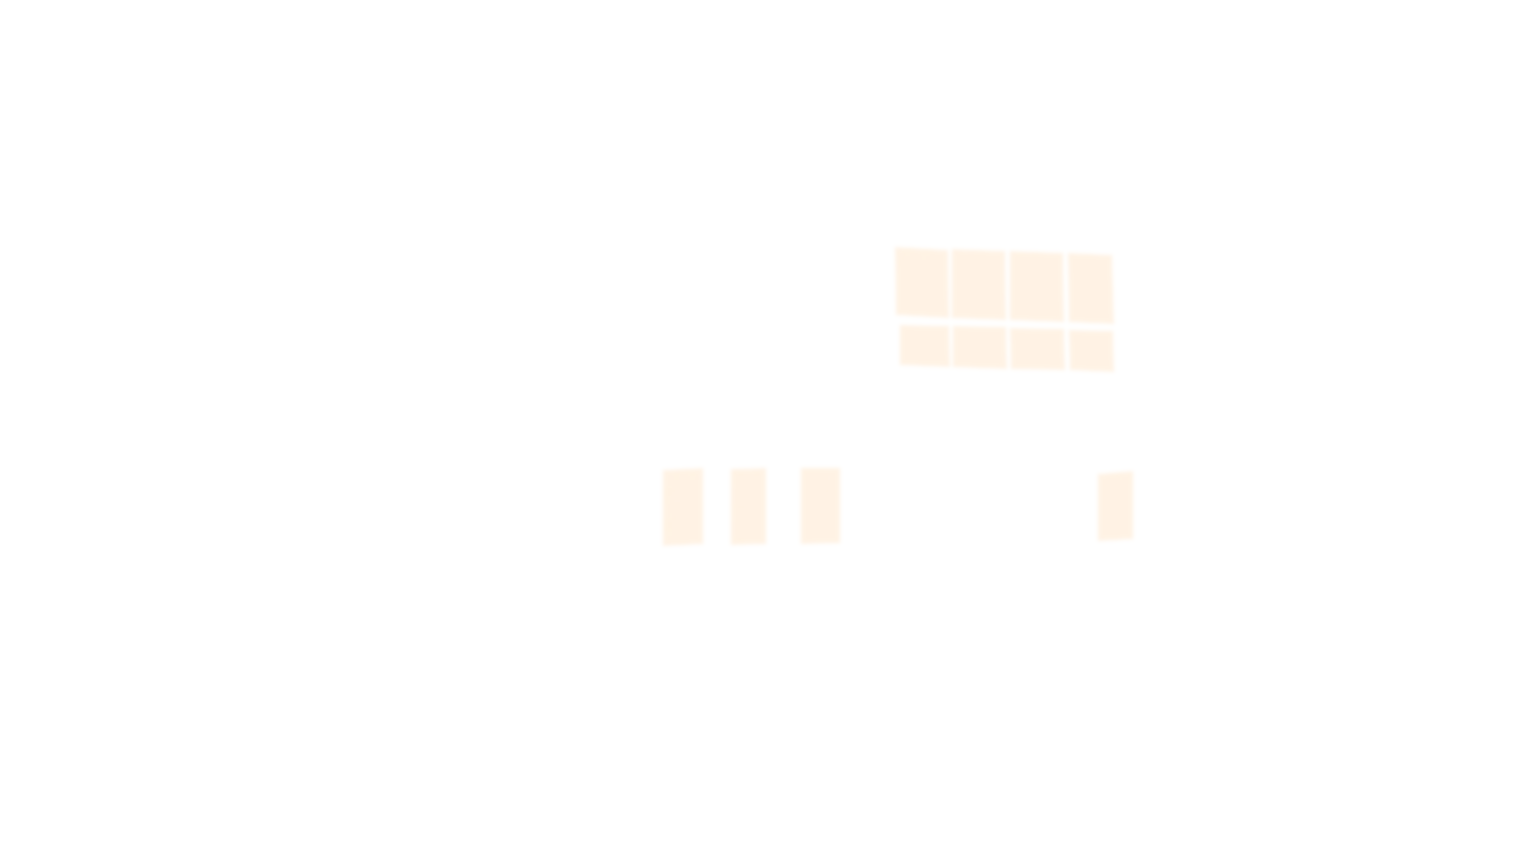
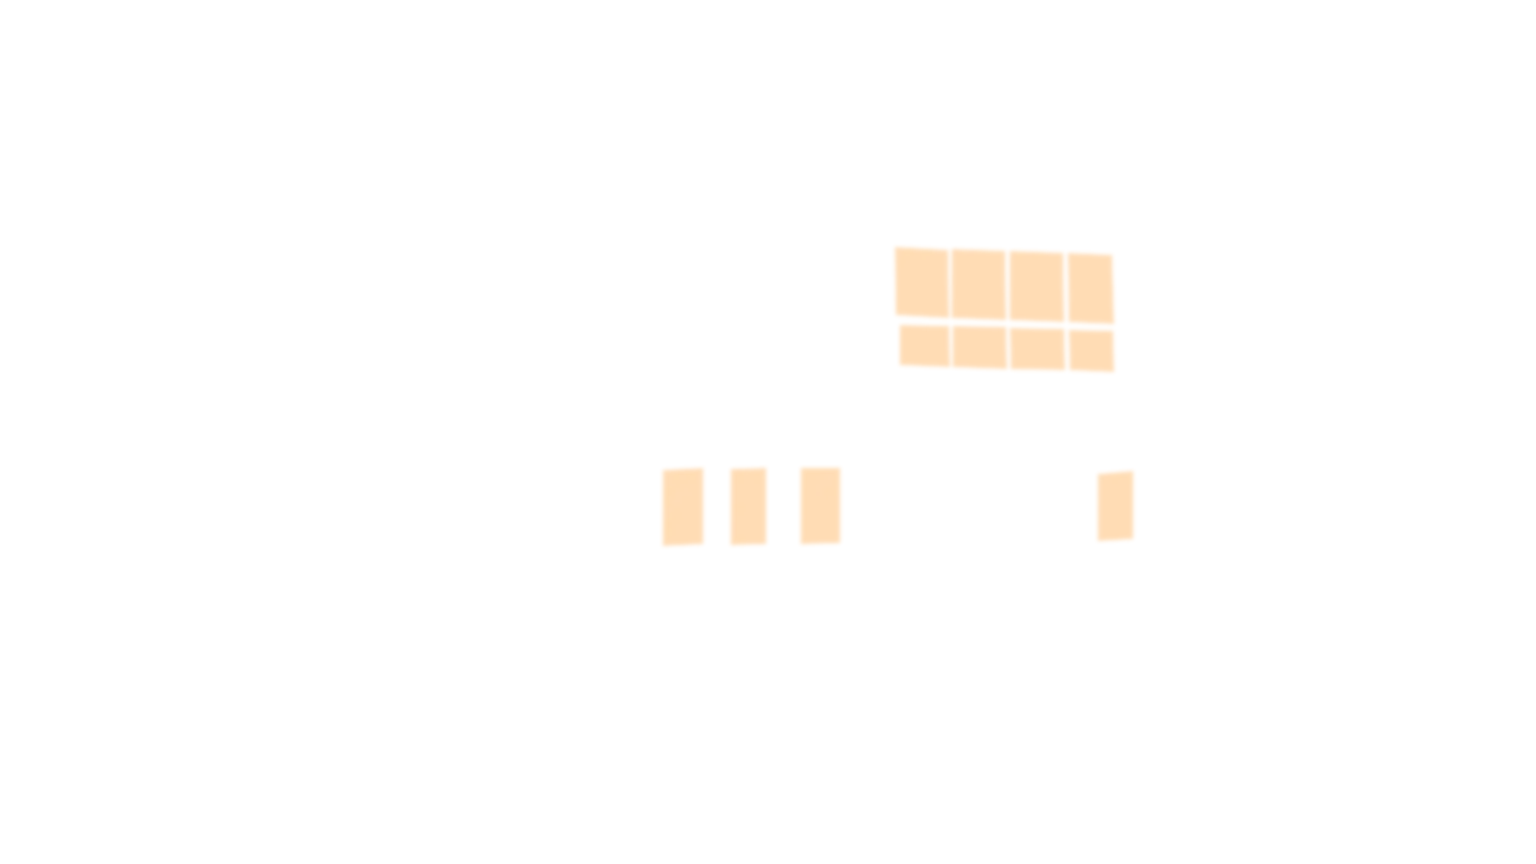
fix: extend hero hover and polish lighting

Changed region(s): [[0.5625, 0.2812, 0.75, 0.4375], [0.4062, 0.5312, 0.5625, 0.6562], [0.6875, 0.5312, 0.75, 0.625]]

diff --git a/src/features/hero-motion/__tests__/useHeroMotion.test.tsx b/src/features/hero-motion/__tests__/useHeroMotion.test.tsx
@@ -42,14 +42,26 @@ describe("useHeroMotion", () => {
     render(<Harness />);
     const host = screen.getByTestId("host");
     bounds(host);
-    fireEvent.pointerMove(host, { clientX: 50, clientY: 300 });
+    fireEvent.pointerMove(host, { clientX: 12, clientY: 300 });
     act(() => vi.advanceTimersByTime(39));
     expect(host.getAttribute("data-state")).toBe("idle");
     act(() => vi.advanceTimersByTime(1));
     expect(host.getAttribute("data-state")).toBe("sketchReveal");
-    fireEvent.pointerMove(host, { clientX: 82, clientY: 300 });
+    fireEvent.pointerMove(host, { clientX: 70, clientY: 300 });
     act(() => vi.advanceTimersByTime(70));
     expect(host.getAttribute("data-state")).toBe("finishedLights");
+  });
+
+  it("activates the finished reveal at the far-left edge of the hero", () => {
+    vi.spyOn(window, "requestAnimationFrame").mockReturnValue(1);
+    render(<Harness />);
+    const host = screen.getByTestId("host");
+    bounds(host);
+
+    fireEvent.pointerMove(host, { clientX: 1, clientY: 300 });
+    act(() => vi.advanceTimersByTime(40));
+
+    expect(host.getAttribute("data-state")).toBe("sketchReveal");
   });
 
   it("uses one rAF and resets immediately on exit", () => {

diff --git a/src/features/hero-motion/heroMotion.css b/src/features/hero-motion/heroMotion.css
@@ -49,24 +49,35 @@
 }
 
 .heroLightLayer {
-  opacity: 0;
-  -webkit-mask-image: linear-gradient(90deg, transparent 0 61%, #000 65% 100%);
-  mask-image: linear-gradient(90deg, transparent 0 61%, #000 65% 100%);
+  will-change: opacity;
   transition: opacity 120ms cubic-bezier(0.4, 0, 0.2, 1);
 }
 
+.heroLightInterior {
+  opacity: var(--hero-interior-opacity);
+  filter: saturate(0.92) brightness(1.06) blur(0.25px);
+  mix-blend-mode: screen;
+}
+
+.heroLightExterior {
+  opacity: var(--hero-exterior-opacity);
+  filter: saturate(0.88) brightness(0.94);
+}
+
+.heroLightBounce {
+  opacity: var(--hero-bounce-opacity);
+  filter: saturate(0.9) brightness(0.94);
+}
+
 [data-hero-state="finishedLights"] .heroLightInterior {
-  opacity: 1;
   transition: opacity 190ms cubic-bezier(0.16, 1, 0.3, 1) 70ms;
 }
 
 [data-hero-state="finishedLights"] .heroLightExterior {
-  opacity: 1;
   transition: opacity 200ms cubic-bezier(0.16, 1, 0.3, 1) 120ms;
 }
 
 [data-hero-state="finishedLights"] .heroLightBounce {
-  opacity: 1;
   transition: opacity 240ms cubic-bezier(0.16, 1, 0.3, 1) 180ms;
 }
 

diff --git a/src/features/hero-motion/__tests__/resolveHeroState.test.ts b/src/features/hero-motion/__tests__/resolveHeroState.test.ts
@@ -3,19 +3,20 @@ import { resolveHeroState } from "../resolveHeroState";
 
 describe("resolveHeroState", () => {
   it.each([
-    [0.1, "idle"],
-    [0.36, "sketchReveal"],
+    [0, "sketchReveal"],
+    [0.1, "sketchReveal"],
+    [0.3, "sketchReveal"],
     [0.5, "sketchReveal"],
-    [0.63, "finishedLights"],
+    [0.52, "finishedLights"],
     [0.95, "finishedLights"],
   ] as const)("maps %s to %s", (x, expected) => {
     expect(resolveHeroState(x, "idle")).toBe(expected);
   });
   it("holds sketch inside the seam buffer", () => {
-    expect(resolveHeroState(0.635, "sketchReveal")).toBe("sketchReveal");
+    expect(resolveHeroState(0.525, "sketchReveal")).toBe("sketchReveal");
   });
   it("holds lights until the pointer clears the seam buffer", () => {
-    expect(resolveHeroState(0.62, "finishedLights")).toBe("finishedLights");
-    expect(resolveHeroState(0.6, "finishedLights")).toBe("sketchReveal");
+    expect(resolveHeroState(0.51, "finishedLights")).toBe("finishedLights");
+    expect(resolveHeroState(0.49, "finishedLights")).toBe("sketchReveal");
   });
 });

diff --git a/tests/e2e/hero-motion.spec.ts b/tests/e2e/hero-motion.spec.ts
@@ -9,12 +9,14 @@ test("desktop hero owns three isolated states", async ({ page }) => {
   const box = await media.boundingBox();
   if (!box) throw new Error("Desktop hero media is not visible");
 
-  await page.mouse.move(box.x + box.width * 0.5, box.y + box.height * 0.45);
+  await page.mouse.move(box.x + box.width * 0.08, box.y + box.height * 0.45);
   await expect(media).toHaveAttribute("data-hero-state", "sketchReveal");
-  await page.mouse.move(box.x + box.width * 0.82, box.y + box.height * 0.45);
+  await page.mouse.move(box.x + box.width * 0.7, box.y + box.height * 0.45);
   await expect(media).toHaveAttribute("data-hero-state", "finishedLights");
+  await expect(media.locator(".heroLightInterior")).toHaveCSS("opacity", "1");
   await page.mouse.move(10, 10);
   await expect(media).toHaveAttribute("data-hero-state", "idle");
+  await expect(media.locator(".heroLightLayer")).toHaveCSS("opacity", "0");
 });
 
 test("touch uses the static mobile fallback", async ({ browser }) => {

diff --git a/src/features/hero-motion/resolveHeroState.ts b/src/features/hero-motion/resolveHeroState.ts
@@ -5,20 +5,18 @@ const clamp01 = (value: number) => Math.min(1, Math.max(0, value));
 
 export function resolveHeroState(rawXRatio: number, previous: HeroMotionState): HeroMotionState {
   const x = clamp01(rawXRatio);
-  const { sketchStart, lightsStart, hysteresis } = HERO_MOTION;
+  const { lightsStart, hysteresis } = HERO_MOTION;
 
   if (previous === "finishedLights") {
     if (x >= lightsStart - hysteresis) return "finishedLights";
-    return x >= sketchStart ? "sketchReveal" : "idle";
+    return "sketchReveal";
   }
 
   if (previous === "sketchReveal") {
-    if (x < sketchStart - hysteresis) return "idle";
     if (x >= lightsStart + hysteresis) return "finishedLights";
     return "sketchReveal";
   }
 
   if (x >= lightsStart) return "finishedLights";
-  if (x >= sketchStart) return "sketchReveal";
-  return "idle";
+  return "sketchReveal";
 }

diff --git a/src/features/hero-motion/HeroMotionLayers.tsx b/src/features/hero-motion/HeroMotionLayers.tsx
@@ -16,18 +16,22 @@ interface HeroMotionLayersProps {
   onAssetError?: () => void;
 }
 
-const ROOT_STYLE = {
-  "--hero-reveal-diameter": HERO_MOTION.revealDiameter,
-} as CSSProperties;
-
 export function HeroMotionLayers({ state, layerRef, onAssetError }: HeroMotionLayersProps) {
+  const lightsOn = state === "finishedLights";
+  const rootStyle = {
+    "--hero-reveal-diameter": HERO_MOTION.revealDiameter,
+    "--hero-interior-opacity": lightsOn ? 1 : 0,
+    "--hero-exterior-opacity": lightsOn ? 0.88 : 0,
+    "--hero-bounce-opacity": lightsOn ? 0.72 : 0,
+  } as CSSProperties;
+
   return (
     <div
       ref={layerRef}
       data-testid="hero-motion-layers"
       data-hero-state={state}
       className="heroMotionLayers"
-      style={ROOT_STYLE}
+      style={rootStyle}
       aria-hidden="true"
     >
       <img

diff --git a/src/features/home/concept03-hero-media.test.tsx b/src/features/home/concept03-hero-media.test.tsx
@@ -65,10 +65,12 @@ describe("Concept03 hero media", () => {
     vi.unstubAllGlobals();
   });
 
-  it("keeps the base high priority and loads four decorative layers after it", async () => {
+  it("keeps the approved base high priority and loads overlays after it", async () => {
     media();
     render(<Concept03DesktopHeroMedia />);
-    expect(screen.getByAltText(/architectural sketch/i).getAttribute("fetchpriority")).toBe("high");
+    const base = screen.getByAltText(/architectural sketch/i);
+    expect(base.getAttribute("fetchpriority")).toBe("high");
+    expect(base.getAttribute("src")).toContain("hero-base-approved.png");
     expect(screen.queryByTestId("hero-motion-layers")).toBeNull();
     await load();
     expect(

diff --git a/src/features/hero-motion/__tests__/HeroMotionLayers.test.tsx b/src/features/hero-motion/__tests__/HeroMotionLayers.test.tsx
@@ -19,4 +19,13 @@ describe("HeroMotionLayers", () => {
       "cursor",
     );
   });
+
+  it("publishes zero lighting opacity in the resting state", () => {
+    render(<HeroMotionLayers state="idle" />);
+
+    const style = screen.getByTestId("hero-motion-layers").getAttribute("style") ?? "";
+    expect(style).toContain("--hero-interior-opacity: 0");
+    expect(style).toContain("--hero-exterior-opacity: 0");
+    expect(style).toContain("--hero-bounce-opacity: 0");
+  });
 });

diff --git a/src/features/hero-motion/useHeroMotion.ts b/src/features/hero-motion/useHeroMotion.ts
@@ -21,7 +21,6 @@ function stateIntentDelay(
   if (reducedMotion) return 0;
   if (next === "finishedLights") return HERO_MOTION.lightsIntentMs;
   if (next === "sketchReveal" && previous === "idle") return HERO_MOTION.sketchIntentMs;
-  if (next === "idle") return HERO_MOTION.sketchExitMs;
   return 0;
 }
 

diff --git a/src/features/hero-motion/heroMotion.config.ts b/src/features/hero-motion/heroMotion.config.ts
@@ -1,11 +1,9 @@
 export const HERO_MOTION = {
   enabled: true,
-  sketchStart: 0.36,
-  lightsStart: 0.63,
+  lightsStart: 0.52,
   hysteresis: 0.015,
   revealDiameter: "clamp(180px, 16vw, 240px)",
   sketchIntentMs: 40,
-  sketchExitMs: 140,
   lightsIntentMs: 70,
   lightsSettledMs: 420,
 } as const;
